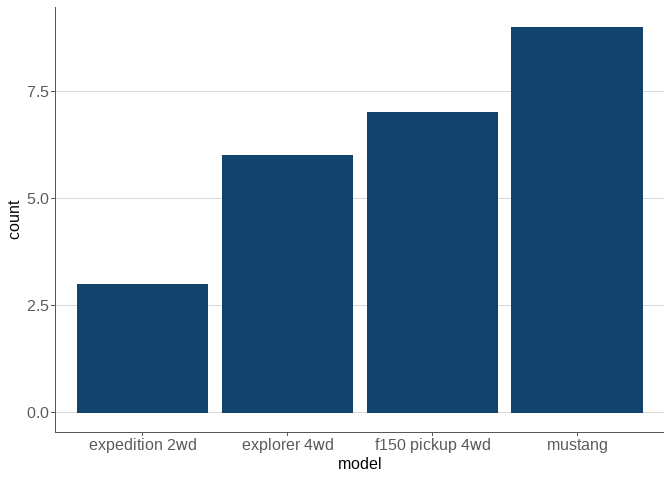
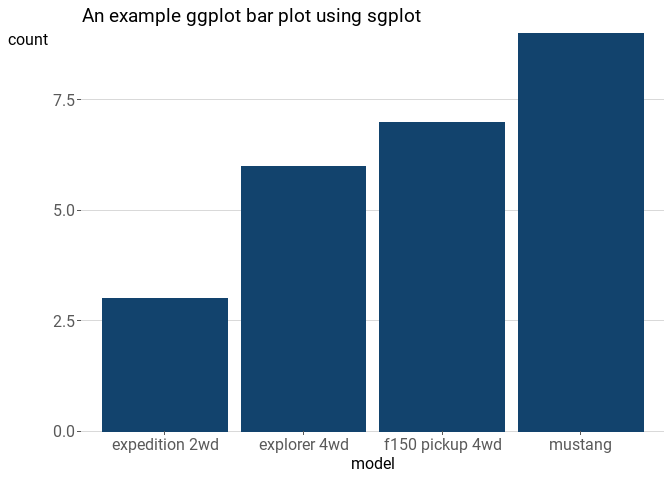
Update example 2 in readme

diff --git a/README.md b/README.md
@@ -100,7 +100,11 @@ ggplot(d, aes(x = model)) + geom_bar()
 ``` r
 sgplot::use_sgplot()
 
-ggplot(d, aes(x = model)) + geom_bar()
+ggplot(d, aes(x = model)) + 
+  geom_bar() +
+  # Make some other adjustments to improve look of plot
+  scale_y_continuous(expand = c(0, 0)) +
+  ggtitle("An example ggplot bar plot using sgplot")
 ```
 
 <img src="man/figures/README-ex2-1.png" alt="Plot with white background, light grey horizontal grid lines and dark blue bars." width="75%" />
